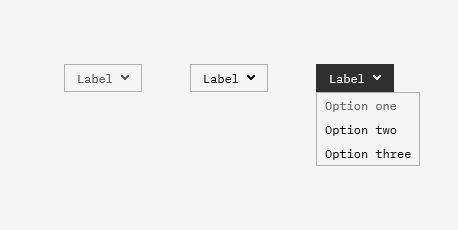
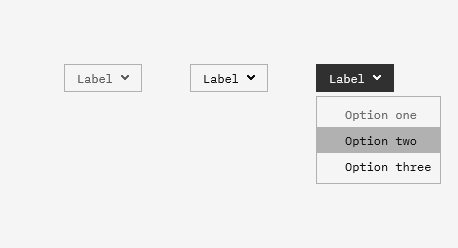
docs: the kit's atomic levels in AGENTS.md, the new words proposed in the glossary, the cards' shots
AGENTS.md says which piece is at which level and how each assembles the one below. GLOSSARY.md marks the new
words (trigger, group, titled group, immediate-selection row, indicator, rule, value row, stage template) as
proposed, waiting for the maintainer. docs/shots gains the seven new cards and the four that changed.

Changed region(s): [[0.6725, 0.2435, 0.9782, 0.7609], [0.3974, 0.2435, 0.5808, 0.4261], [0.1223, 0.2435, 0.3057, 0.4261]]

diff --git a/AGENTS.md b/AGENTS.md
@@ -21,9 +21,9 @@ A small native interface toolkit in Rust, owned end to end and grown piece by pi
 - `crates/mere-png`: the PNG writer (deflate with fixed Huffman codes) and a reader for the files it writes, for picture tests.
 - `crates/mere-win32`: the Windows backend: Win32 window, Direct3D 11 for meshes, Direct2D and DirectWrite for the interface, offscreen rendering, the system's light or dark setting and its change (`system_dark`, `WM_SETTINGCHANGE`), the input method (IMM32: the composition as `Event::Ime`, the candidate window at the caret, off outside text fields), the own frame (`run_with` and `Frame`: hit test, sizing edges, minimum size, cursors, the wake timer, occlusion), and the window's three optional keepsakes in `Frame` (`icon`: an RGBA square for the taskbar; `place`: a file where the place and size are kept at close and restored at start if a screen still shows them, its text and checks in `place.rs`; `hwnd_file`: the window's handle as a decimal while it exists), and the system launcher (`SystemLauncher`: `CREATE_NO_WINDOW`, `taskkill /T /F`, Explorer, with `std::process` only; the folder dialog is the shell's own, `IFileOpenDialog`, modal over the window). The system's reduced-motion setting (`reduced_motion`, "Animation effects" off, read once by the app).
 - `crates/mere-layout`: pure layout: flex (build step 7), the reduced grid, absolute boxes against their parent and the layout side of overflow (build step 8), tree, measure callbacks, a debug dump. No OS code.
-- `crates/mere-ui`: the immediate-mode interface: ids, pointer input, the design system's values in `tokens.rs` (the palette, the spacing scale and its roles, sizes on a 4 px grid, four fades; a widget takes every colour and measure from there, a padding counting the 1 px frame), the dark and light themes as roles pointing to the palette, label, button, toggle, fold, tabs, the text field and number field, the ellipsis text, the vertical scroll area with the kit's own scrollbar (a 1 px track, a 3 px thumb centred on it, a chevron arrow at each end that has content beyond it, in the theme's line, muted and text colours; shown only on overflow, in its own 12 px gutter), and the list row (also as a round mark), legend head, part head, pick links, the hover area, the icon parser, the window buttons and the grips of `chrome.rs`, the cursor shapes and the tooltips, the composition in the text field and the wide cells, and the history trend row with its plotted lines (editing model in `edit.rs`, one focused field, keys and clipboard through `mere-base`); hit tests use the last frame's rects. Depends on `mere-base` and `mere-layout` only. And, for the launcher's Home (step 21): the select with its popup list (`popup.rs`: `select_menu`, painted last, outside every clip) and the same list hung from a strip tab (`tab_menu`, with `TabMenuRow`s that can be disabled), the tool button with its name (`tool_button`), the launcher's icon looks (`IconLook::Square`, `Filled`, `Bare`, joined squares), the hover box, disabled text and number fields (`FieldOpts`, `number_with`), the underlined button, the toggle's own measures (`toggle_with`), and the page's ease and its 220 ms slide (`anim.rs`, `Slide`). And the overlay (`Ui::overlay`): a framed box painted after the whole tree, outside every clip and on whole pixels, that moves nothing when it is an absolute box; what it covers is not hovered and takes no press, and it shows only while some of its parent is in sight. And the help of a row (`help.rs`): the mark after a label that shows on its row (`help_mark`, placed by `help_label`), the panel that opens over the row from its top and is raised only at the window's bottom (`help_panel`, inside a `help_anchor`), and the small icon to click beside a text (`small_icon`). And the selection controls, each piece made once and assembled. The selector (`selector.rs`): `selector_mark` paints the atom alone, the multiple selector (`Selector::Multiple`, square, the default, a check when selected) or the single selector (`Selector::Single`, round, a dot), on whole pixels at `MARK_SIZE`; it takes no press and shows what `MarkOpts` gives it (disabled, lit, on the selection fill), and every piece that shows a selector paints it there. The labelled selector (`selector` with `SelectorOpts`) puts it beside a label, `control-compact` tall; like the toggle it takes no focus, and its press is only reported, its caller applying it, whatever the kind. The lines several components share (`line.rs`): the line a list opens from (a framed box, its text cut at its end, the chevron at `CHEVRON` size), drawn once for `select_menu` and `menu`, and the detail line (a muted "detail · detail_tail" line whose tail is cut at its start, `ellipsize_start`). And the menu (`menu.rs`, `menu`), an assembly of rows: a line in the compact select's look that opens, above it (`MenuOpts::up`) or under it and exactly as wide, an overlay of the rows the caller builds: selection rows (`menu_select` with a `SelectRow`: a selector facing a label cut at its end, with the detail line under the label or not; the whole row takes the press, Space once focused, and `Resp.clicked` asks its caller to change `selected`, so one row serves several or one choice), thin separators (`menu_separator`) and action rows (`menu_action`: no selector, its text lined up with the labels). It stays open while rows are acted on, closes on Escape or on a press outside (which reaches nothing else), or when its caller closes it (on a single choice's pick, after an action row), and gives the focus back to the line, reports Enter (`MenuResp::enter`), and never scrolls. A selection row, an action row and the line hold the one focus as a field does (a press, Tab); Up and Down move it through the open list, and open the closed one on its first or last row; the backend sends Space as the character ' '. `select_menu` stays the pick of one short text; the menu is for selectors, two lines, separators, actions or several choices. A status sentence under a control is `paragraph` with `TextLook::small(Tone::Warn)`, amber.
+- `crates/mere-ui`: the immediate-mode interface: ids, pointer input, the design system's values in `tokens.rs` (the palette, the spacing scale and its roles, sizes on a 4 px grid, four fades; a widget takes every colour and measure from there, a padding counting the 1 px frame), the dark and light themes as roles pointing to the palette, label, button, toggle, fold, tabs, the text field and number field, the ellipsis text, the vertical scroll area with the kit's own scrollbar (a 1 px track, a 3 px thumb centred on it, a chevron arrow at each end that has content beyond it, in the theme's line, muted and text colours; shown only on overflow, in its own 12 px gutter), and the list row (also as a round mark), legend head, part head, pick links, the hover area, the icon parser, the window buttons and the grips of `chrome.rs`, the cursor shapes and the tooltips, the composition in the text field and the wide cells, and the history trend row with its plotted lines (editing model in `edit.rs`, one focused field, keys and clipboard through `mere-base`); hit tests use the last frame's rects. Depends on `mere-base` and `mere-layout` only. And, for the launcher's Home (step 21): the select (`select_menu`) and the list hung from a strip tab (`tab_menu`, with `TabMenuRow`s that can be disabled), both a menu holding one group of immediate-selection rows that closes on its pick (`select.rs`), so that the kit has one system of open lists, the tool button with its name (`tool_button`), the launcher's icon looks (`IconLook::Square`, `Filled`, `Bare`, joined squares), the hover box, disabled text and number fields (`FieldOpts`, `number_with`), the underlined button, the toggle's own measures (`toggle_with`), and the page's ease and its 220 ms slide (`anim.rs`, `Slide`). And the overlay (`Ui::overlay`): a framed box painted after the whole tree, outside every clip and on whole pixels, that moves nothing when it is an absolute box; what it covers is not hovered and takes no press, and it shows only while some of its parent is in sight. And the help of a row (`help.rs`): the mark after a label that shows on its row (`help_mark`, placed by `help_label`), the panel that opens over the row from its top and is raised only at the window's bottom (`help_panel`, inside a `help_anchor`), and the small icon to click beside a text (`small_icon`). And the selection controls, each piece made once and assembled. The selector (`selector.rs`): `selector_mark` paints the atom alone, the multiple selector (`Selector::Multiple`, square, the default, a check when selected) or the single selector (`Selector::Single`, round, a dot), on whole pixels at `MARK_SIZE`; it takes no press and shows what `MarkOpts` gives it (disabled, lit, on the selection fill), and every piece that shows a selector paints it there. The labelled selector (`selector` with `SelectorOpts`) puts it beside a label, `control-compact` tall; like the toggle it takes no focus, and its press is only reported, its caller applying it, whatever the kind. The kit is built on Brad Frost's levels, each piece made once and each level only assembling the one below, placed with the spacing roles of `tokens.rs`; why each piece is the way it is stands in its module's comment, and every public name with its proposed name in `docs/naming.md`. Atoms: the selector, the rule (`rule.rs`: `Rule::Section` in the edge colour opens a panel's section, `Rule::Separator` in the line colour parts things inside one), the disabled look (`Theme::disabled_if`, the one fade) and the hover tint (`Theme::tint`). The lines several components share (`line.rs`): the line a list opens from (a framed box, its text cut at its end, the chevron at `CHEVRON` size) and the detail line (a muted "detail · detail_tail" line whose tail is cut at its start, `ellipsize_start`). Molecules, the rows of a list (`row.rs`), on one grid (a lead column `MARK_SIZE` wide facing the label's first line, its drop worked out from the x-height, and the text column, the detail line on a second grid row under the label, so that turning it on or off moves nothing else; `LIST_ROW` tall on one line): the selection row (`selection_row` with a `SelectionRow`: a selector, the whole row takes the press, `Resp.clicked` asks its caller to change `selected`), the action row (`action_row`: no selector, its text lined up with the labels) and the immediate-selection row (`immediate_row` with an `ImmediateRow`: no selector, applied at once, the selected one lit with the tint and marked by an indicator `INDICATOR_W` wide); and the value row (`value.rs`: `value_row`, a label with its help mark, an optional note and a control in a column every row shares). No row, group or atom has a frame or a fill: the focused row is filled with the selection colour, a state. Organisms: the group (`group.rs`: `group`, rows stacked, parted from a group it follows by a separator it places itself; `titled_group`, a title in capitals and a separator over the rows, `gap-wide` after a group) and the menu (`menu.rs`: `menu` with a `Trigger`, a line or a strip tab, that opens above it (`MenuOpts::up`) or under it an overlay holding the groups the caller builds; from a line exactly as wide, from a tab as wide as its rows say they want (`Ui::menu_want`). It stays open while rows are acted on, closes on Escape or on a press outside (which reaches nothing else), or when its caller closes it, gives the keyboard back to the trigger from its own rows, reports Enter (`MenuResp::enter`), never scrolls, and opens on the row `MenuOpts::start` names (a select's chosen one). Rows and the trigger hold the one focus as a field does (a press, Tab); Up and Down move it through the open list and open the closed one; the backend sends Space as the character ' '). Templates (`template.rs`): `stage_template` places a stage and up to two side panels from a `StagePlan` (the widths are the application's), beside with a grip in each gap (`split_grip`, reported in `GripResp`) or stacked, each panel then one whole that scrolls (`panel_scroll`). A status sentence under a control is `paragraph` with `TextLook::small(Tone::Warn)`, amber.
 - `demos/shell-boxes`: the world preview's page shell laid out at 1400, 1200 and 1000 px and drawn as named boxes and the gallery of the page's grid rows and absolute boxes (`cargo test -p shell-boxes` writes `target/tmp/shell_<width>.png` and `target/tmp/gallery.png`).
 - The world preview's window (`preview/`) and the relief demo (`relief/`) are not here: they now live in the `outpost-tools` repository (https://github.com/louisfifre/outpost-tools), which depends on this kit by git tag. `outpost-tools` pins a tag of this repository, so renaming a crate is a breaking change for it at its next pin.
-- `demos/widgets`: the Design System's components as cards, one per component (`src/cards`, twenty-three: button, cover, detail-tabs, fold, help, hover-box, icon-button, list-heads, list-row, menu, number-field, scroll-area, select, selector, stop-button, tab-menu, tabs, text, text-field, toggle, tool-button, tooltip, trend-row), each the same picture as the Design System's preview of it (`components/<Name>/preview.html`; the selector and menu cards stand alone until the Design System has previews of them): no caption, `SPACE_64` padding, blocks `SPACE_96` apart, a matrix being a grid of `SPACE_48` gaps whose cells are each built in their own `Ui` so one pointer can hover or hold them (`cards/mod.rs`: `Block`, `Cell`, `State`, `render`). `cargo test -p widgets --test cards` writes `target/tmp/card_<name>_<dark|light>.png` for every card in both themes (`docs/shots/card-*.png` are copies), `widgets --card NAME [--light] [--shot out.png]` opens one in a window or draws it offscreen, and `tests/behaviour.rs` drives widgets in a `Ui` (pointer, keys, characters, the input method) and checks the frame's pixels: button and toggle states, icon button looks, field focus, caret and selection, the composition's underline, the number field, the scrollbar, list rows, the multiple and the single selector (a press reported, the value the caller's), the selection row (press, Space, focus, disabled, the detail tail cut at its start, a single selection row with a detail line) and the menu (its width and place, open while selecting, a single choice closed on its pick, the action row's text lined up with the labels, Up and Down, Escape, a press outside, Enter reported, Tab), and the amber status sentence.
+- `demos/widgets`: the Design System's components as cards, one per component (`src/cards`, thirty: action-row, button, cover, detail-tabs, fold, group, help, hover-box, icon-button, immediate-row, list-heads, list-row, menu, number-field, rule, scroll-area, select, selection-row, selector, stage-template, stop-button, tab-menu, tabs, text, text-field, toggle, tool-button, tooltip, trend-row, value-row), each the same picture as the Design System's preview of it (`components/<Name>/preview.html`; the cards of the selection family, the rule, the group, the value row and the stage template stand alone until the Design System has previews of them; a row's card shows rest, hover, held, focused and disabled, the focus given by a press with the pointer then moved away): no caption, `SPACE_64` padding, blocks `SPACE_96` apart, a matrix being a grid of `SPACE_48` gaps whose cells are each built in their own `Ui` so one pointer can hover or hold them (`cards/mod.rs`: `Block`, `Cell`, `State`, `render`). `cargo test -p widgets --test cards` writes `target/tmp/card_<name>_<dark|light>.png` for every card in both themes (`docs/shots/card-*.png` are copies), `widgets --card NAME [--light] [--shot out.png]` opens one in a window or draws it offscreen, and `tests/behaviour.rs` drives widgets in a `Ui` (pointer, keys, characters, the input method) and checks the frame's pixels: button and toggle states, icon button looks, field focus, caret and selection, the composition's underline, the number field, the scrollbar, list rows, the multiple and the single selector (a press reported, the value the caller's), the selection row (press, Space, focus, disabled, the detail tail cut at its start, a single selection row with a detail line), the immediate-selection row (applied on its press, lit and marked), the group's separator and spacing, the value row's mark, the split grip, and the menu (its width and place, open while selecting, a single choice closed on its pick, the action row's text lined up with the labels, Up and Down, Escape, a press outside, Enter reported, Tab), and the amber status sentence.
 - `GLOSSARY.md`: the project's words (bar, tool, view, strip, panel, stage, cut, probe, run…), confirmed with the maintainer; name things this way.
 - `docs/design.md`: the design dossier (module tree, reduced flex/grid, text field, build plan, risks).

diff --git a/GLOSSARY.md b/GLOSSARY.md
@@ -25,8 +25,21 @@ The project's words, each confirmed with the maintainer. Name things this way in
 - **breakpoint**: a window width at which the layout changes form. Kept as few as possible: none in the world preview, at most one in the launcher's Home.
 - **shot**: a PNG rendered offscreen, the same frame the window shows. Rejected: screenshot, capture.
 - **PLACEHOLDER**: a provisional value shown until the real one exists, always marked as such in the handoff.
-- **menu**: a line that opens a list of rows over what lies around it, above or under the line and as wide as it; the rows are selection rows and action rows, groups of them parted by thin separators. Confirmed by the maintainer on 2026-11-23. Rejected: dropdown.
+- **menu**: the container of an open list: a trigger (a line with a chevron, or a strip tab) opens, above or under it, a framed box that holds groups of rows. The menu brings the frame and the fill; its groups and rows have none. Confirmed by the maintainer on 2026-11-23 (the trigger and the groups are proposed words, below). Rejected: dropdown.
 - **single selector**: the round mark of one choice among several, a dot when it is selected; it is never alone, always one among others. It is the mark alone, without its label. Confirmed by the maintainer on 2026-11-23. Rejected: radio, radio button.
 - **multiple selector**: the square mark of one of several choices that can be taken together, a check when it is selected. It is the mark alone, without its label. Confirmed by the maintainer on 2026-11-23.
 - **selection row**: a row of a menu that selects: a selector facing its label, with a muted detail line under the label or not. Confirmed by the maintainer on 2026-11-23.
 - **action row**: a row of a menu that runs something ("Browse…"), with no selector; its text lines up with the labels. Confirmed by the maintainer on 2026-11-23.
+
+## Proposed words
+
+Words the atomic rebuild of the kit introduced; each waits for the maintainer's yes. Until then the code uses them and `docs/naming.md` lists them as proposed.
+
+- **trigger**: what opens a menu: a line with a chevron (the select's look) or a strip tab with a chevron (More). Proposed. Rejected: button, opener.
+- **group**: rows stacked with no frame and no fill, placeable anywhere (a menu's list, a panel); a group that follows another is parted from it by a thin separator, which the group places itself. Proposed. Rejected: section (a panel's fold is one).
+- **titled group**: a group with a title in capitals and a separator under it, the panel's group of settings; parted from the group before by space, not by a separator. Proposed.
+- **immediate-selection row**: a row that applies its choice as soon as it is pressed, with no selector and nothing to validate after; the selected one is lit as under the pointer and marked by an indicator bar on its side. The select's options and More's rows are these. Proposed. Rejected: option, menu item.
+- **indicator**: the small bar on the side of the selected immediate-selection row. Proposed.
+- **rule**: the one 1 px line of the kit, of two kinds: a section rule (edge colour) opens a panel's section, a separator (line colour) parts things inside one. Proposed. Rejected: divider, hairline (kept for the drawing itself).
+- **value row**: a panel's setting: a label with its help mark, an optional note, and the control at the right, every row's control in one column. Proposed. Rejected: setting row, field row.
+- **stage template**: the page's layout: the stage in the centre and up to two panels, beside it with a grip in each gap or stacked under it. Proposed. Rejected: layout, shell.
